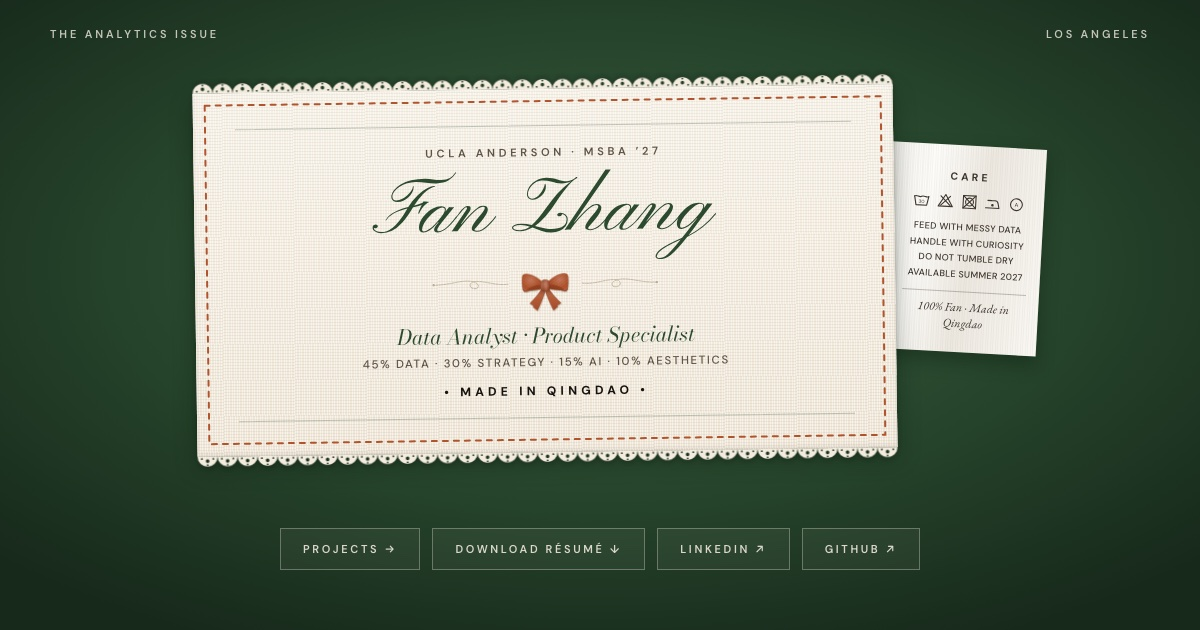
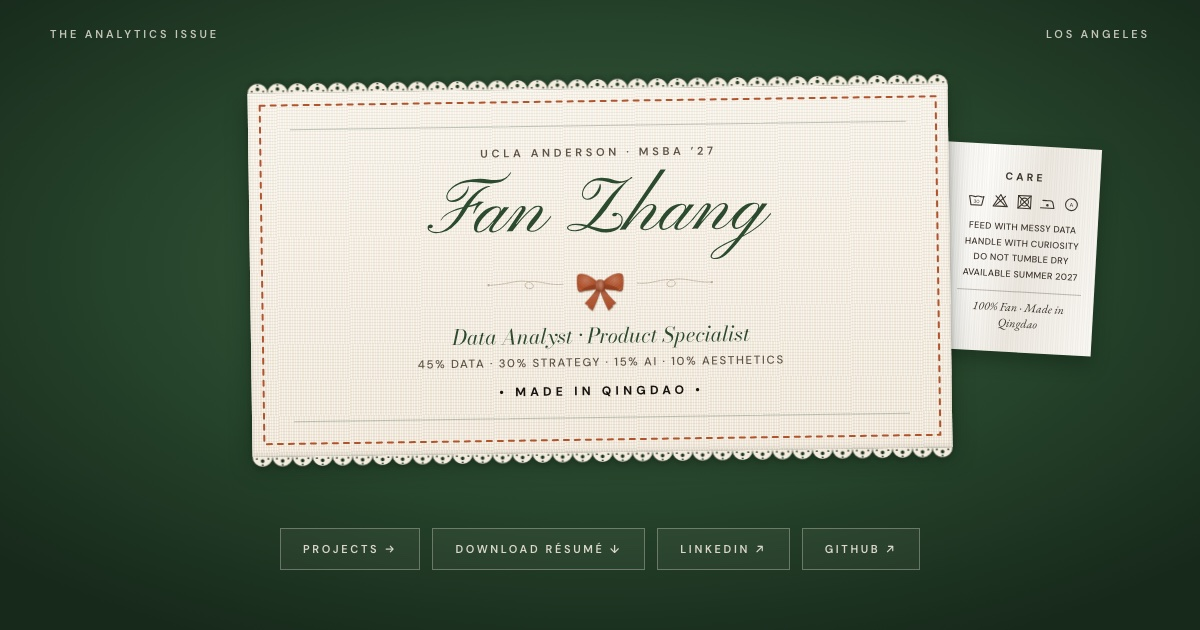
Center the main cover label

Changed region(s): [[0.1542, 0.1206, 0.925, 0.754], [0.3083, 0.4222, 0.6475, 0.6333], [0.3083, 0.2111, 0.6475, 0.4222]]

diff --git a/index.html b/index.html
@@ -311,7 +311,7 @@ box-shadow:0 8px 18px rgba(10,24,12,.35);color:#3d362d;text-align:center;display
 .t2 .care .c-ic{display:flex;gap:.7cqw}.t2 .care .c-ic svg{width:2.7cqw;height:2.7cqw;fill:none;stroke:currentColor;stroke-width:1.4;stroke-linejoin:round;stroke-linecap:round}
 .t2 .care ul{list-style:none;margin:0;padding:0;font:500 1.3cqw/1.7 var(--sans);letter-spacing:.03em;white-space:nowrap;text-transform:uppercase}
 .t2 .care .c-f{font:italic 400 1.7cqw var(--body);border-top:1px solid rgba(61,54,45,.3);padding-top:1cqw}
-@media (min-width:901px){.tag.t2{left:-5%}}
+@media (min-width:901px){.tag.t2{left:0}}
 @media (max-width:900px){.t2 .care{position:relative;top:auto;right:auto;width:62%;margin:-3cqw auto 0;padding:7cqw 4cqw 4cqw;transform:rotate(2deg);gap:2cqw}
 .t2 .care .c-h{font-size:2.8cqw}.t2 .care .c-ic svg{width:5cqw;height:5cqw}.t2 .care ul{font-size:2.6cqw}.t2 .care .c-f{font-size:3.2cqw}}
 </style></head><body id="top">
